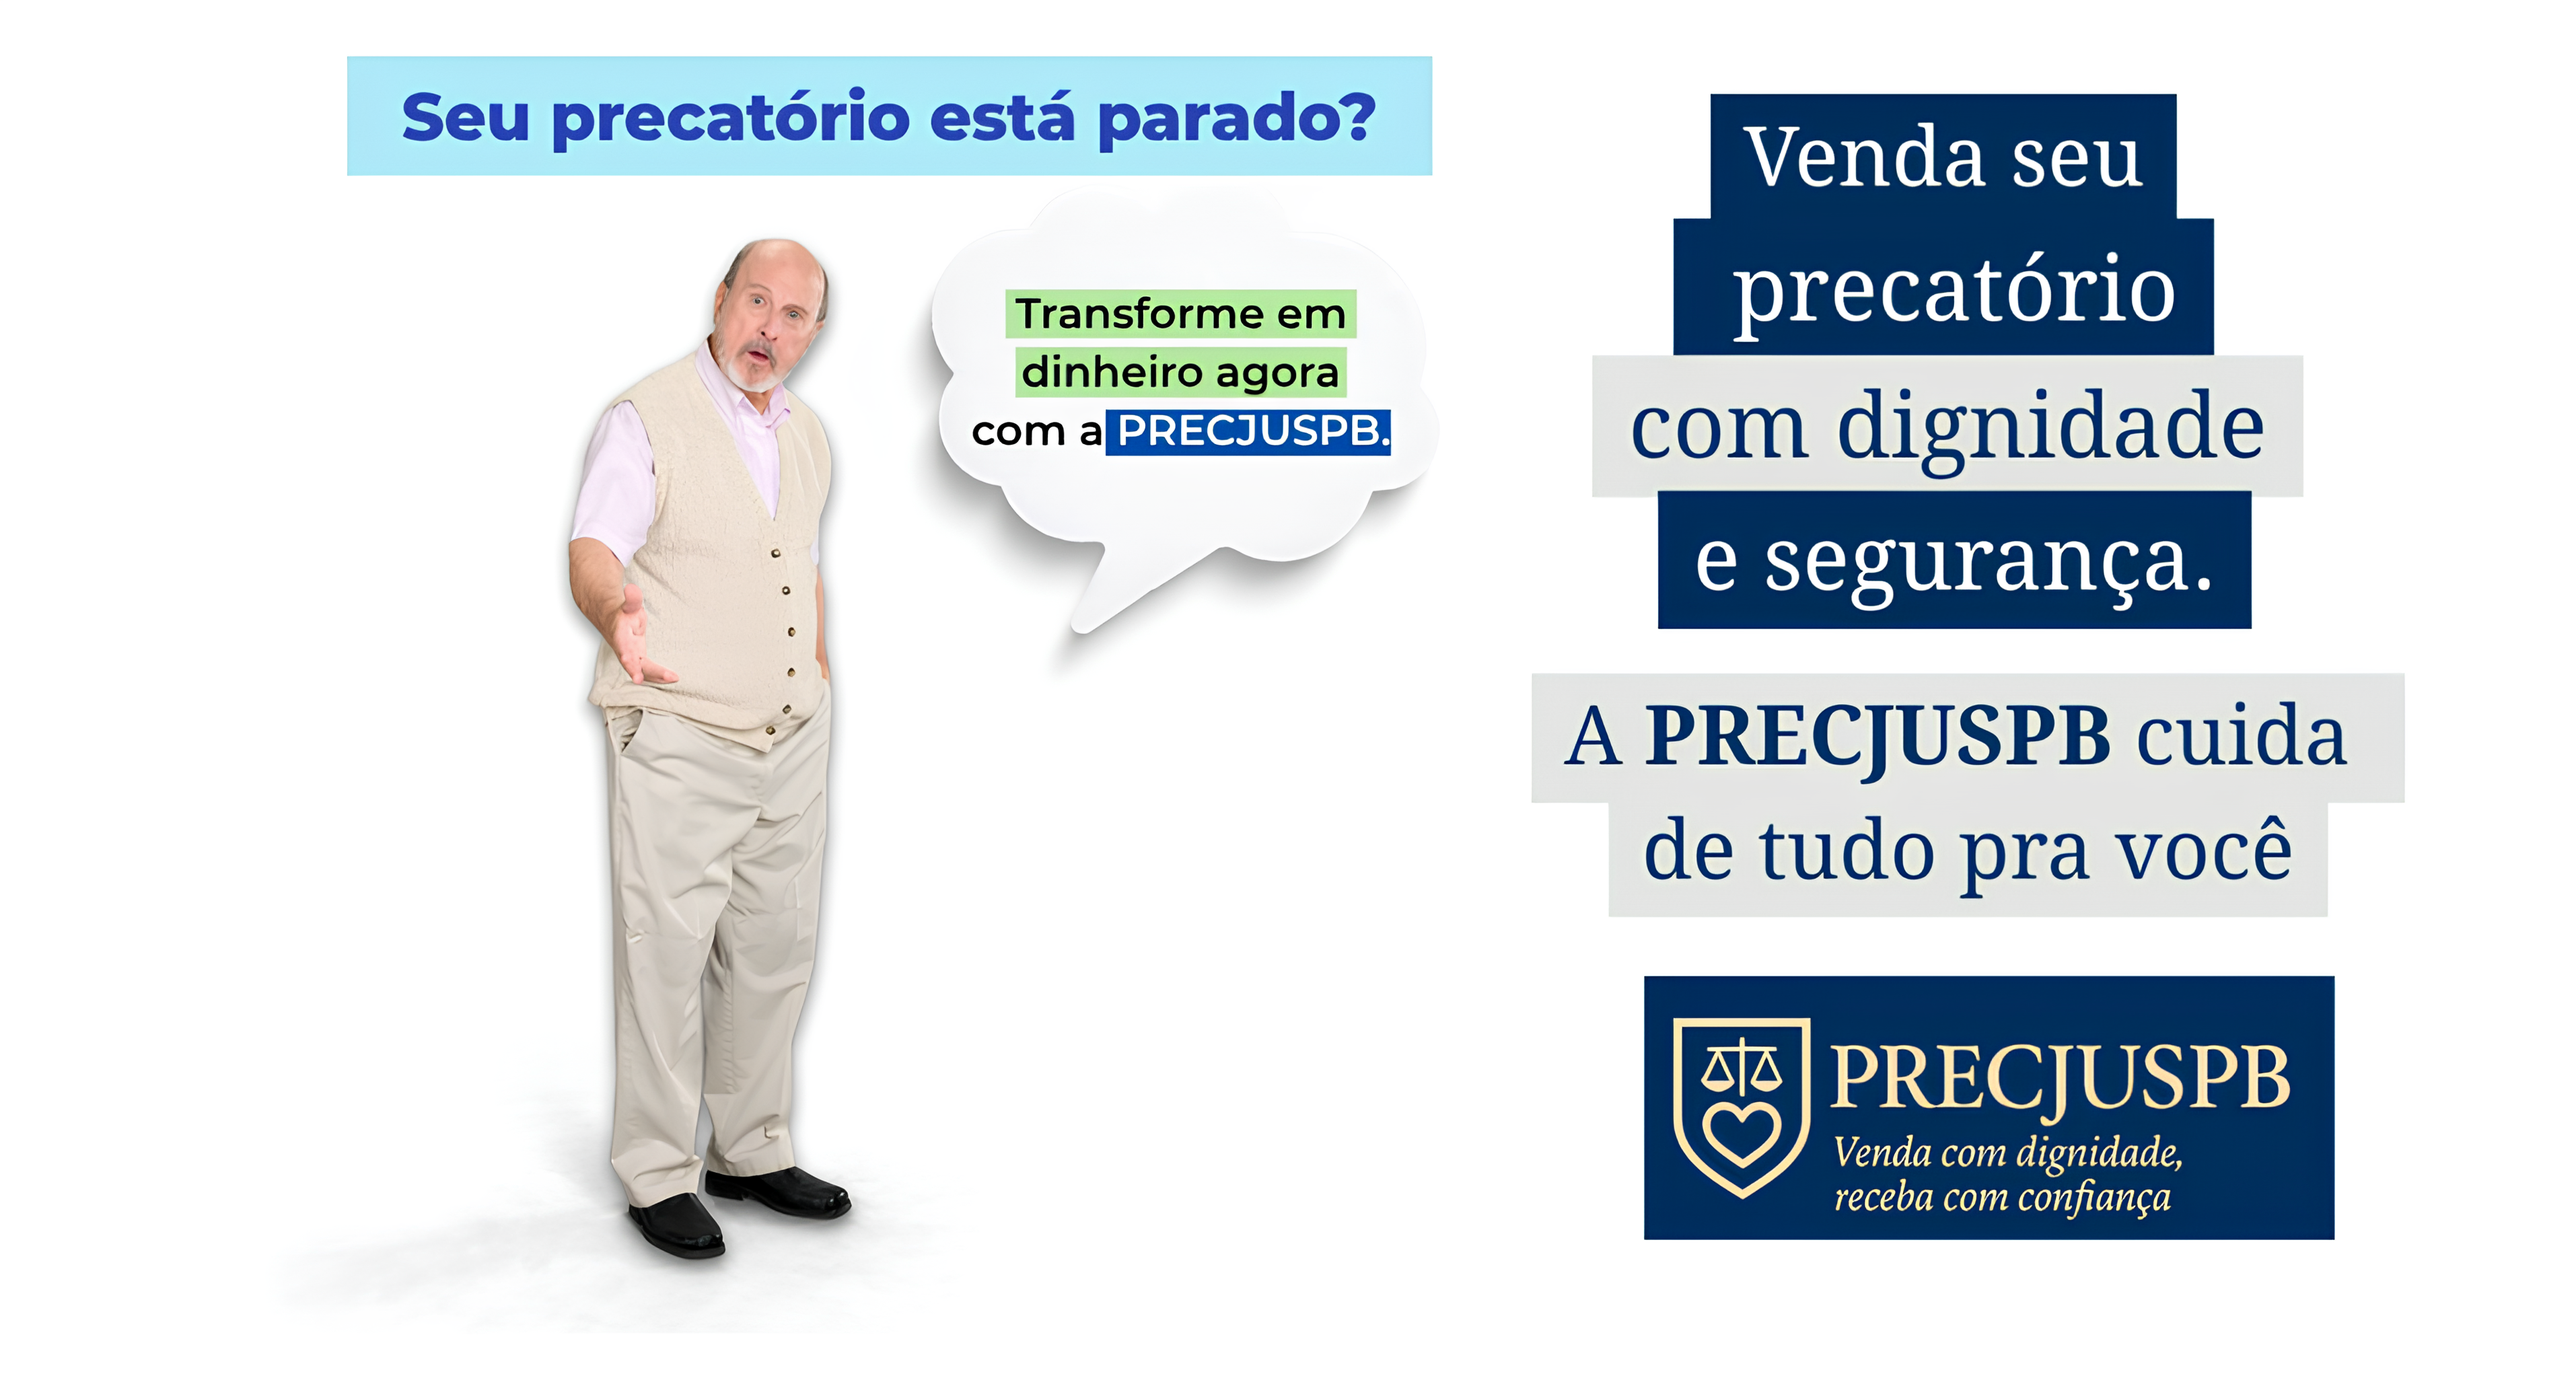
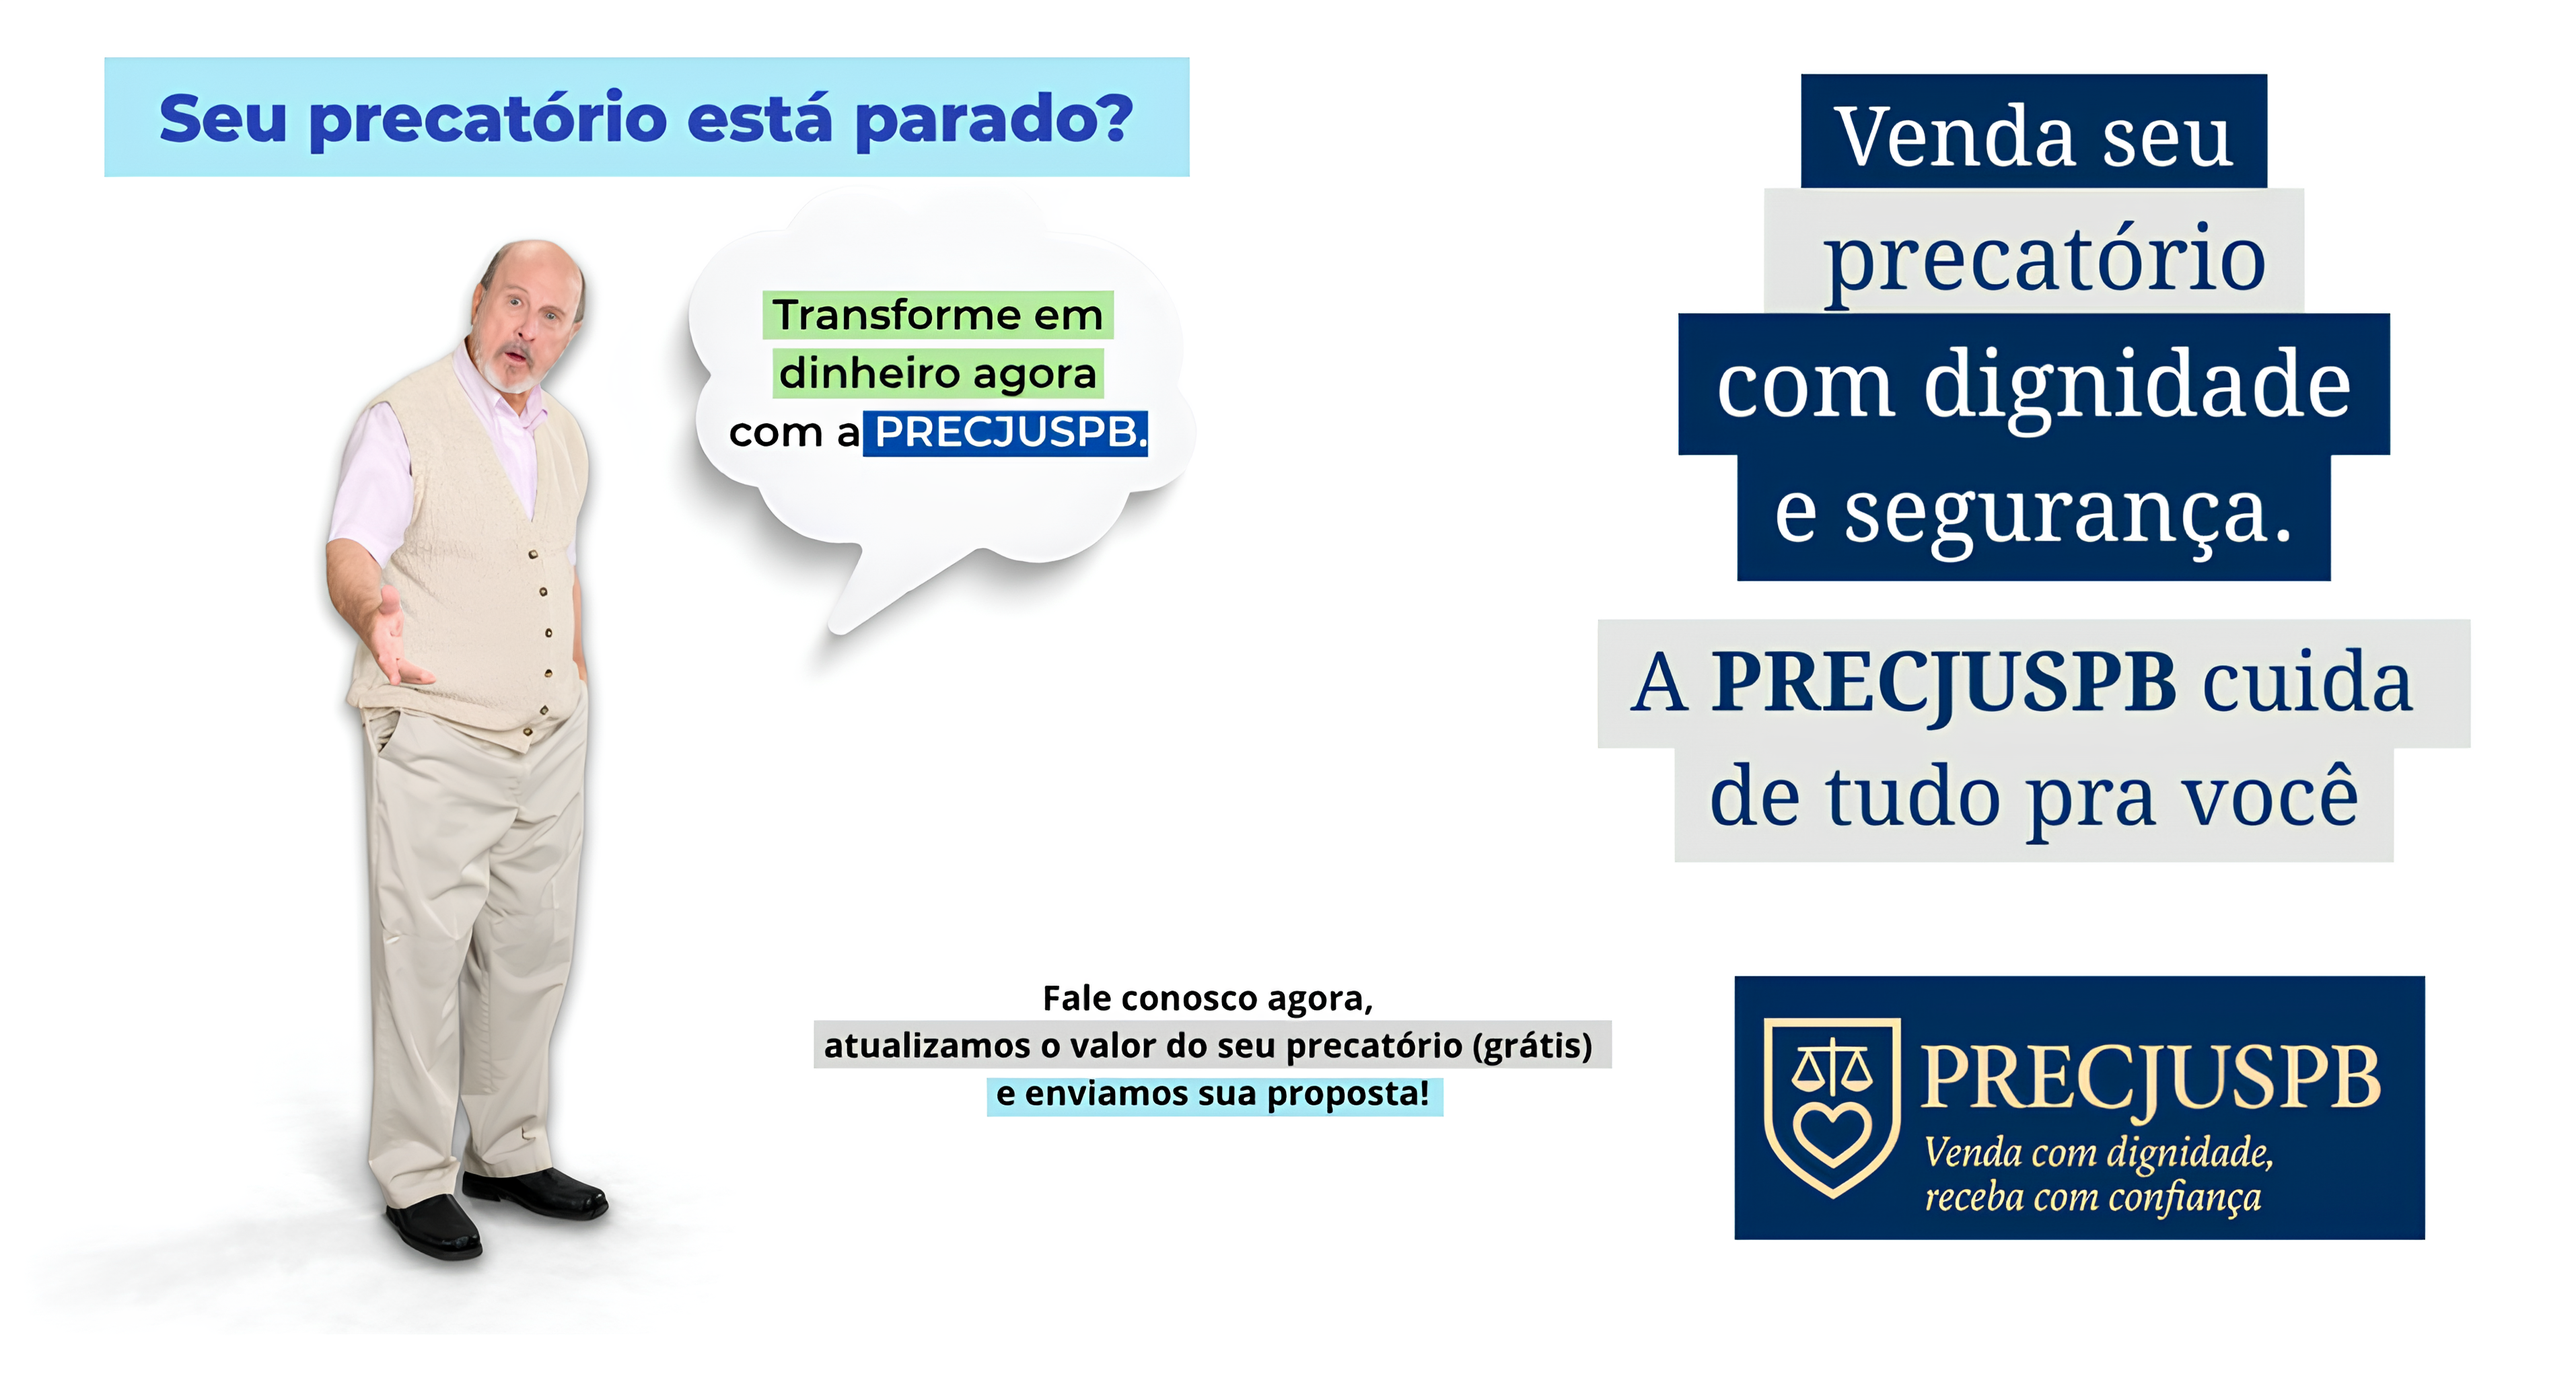
Update hero overlay position and add placeholder text
Adjusted the .heroOverlay left position from 45% to 40% in CSS for improved layout. Added a placeholder paragraph ('aaaaaaaaa') to the hero section in page.tsx. Updated bannerTop.png image.

diff --git a/src/app/page.tsx b/src/app/page.tsx
@@ -12,6 +12,9 @@ export default function Home() {
 <section className={styles.hero} id="inicio">
   <div className={styles.heroOverlay}>
     <div className={styles.heroCtaBox}>
+      <p>
+        aaaaaaaaa
+      </p>
       <a
         href="https://wa.me/558331429255"
         className={styles.ctaButton}

diff --git a/src/app/page.module.css b/src/app/page.module.css
@@ -38,7 +38,7 @@
 .heroOverlay {
   position: absolute;
   bottom: 3.7rem;
-  left: 45%;
+  left: 40%;
   transform: translate(-50%, -50%);
   text-align: center;
   z-index: 2;
